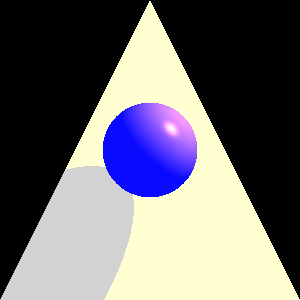
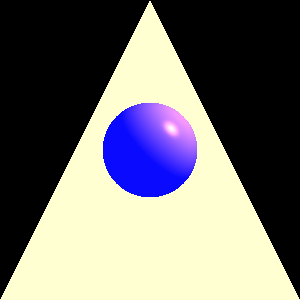
part 7 section 2

Changed region(s): [[0.0, 0.54, 0.45, 1.0]]

diff --git a/src/renderer/SimpleRayTracer.java b/src/renderer/SimpleRayTracer.java
@@ -20,45 +20,91 @@ import static primitives.Util.isZero;
 public class SimpleRayTracer extends RayTracerBase {
     private static final double DELTA = 0.1;
     private static final Double3 MIN_CALC_COLOR_K = new Double3(0.001);
-    private static final int MAX_RECURSION_LEVEL = 10;
+    private static final int MAX_CALC_COLOR_LEVEL = 10;
+    private static final Double3 INITIAL_K = Double3.ONE;
 
     public SimpleRayTracer(Scene scene, RayTracerType simple) {
         super(scene);
     }
 
     private Color calcColor(Intersection intersection, Ray ray) {
-        return calcColor(intersection, ray, MAX_RECURSION_LEVEL, 1.0);
+        return calcColor(intersection, ray, MAX_CALC_COLOR_LEVEL, INITIAL_K);
     }
 
-    private Color calcColor(Intersection intersection, Ray ray, int level, double k) {
-        if (intersection == null || level == 0 || k < 0.001)
+    private Color calcColor(Intersection intersection, Ray ray, int level, Double3 k) {
+        if (intersection == null || level == 0 || k.lowerThan(MIN_CALC_COLOR_K))
             return scene.background;
 
         if (!preprocessIntersection(intersection, ray.getDirection()))
             return Color.BLACK;
 
-        Color color = scene.ambientLight.getIntensity()
+        Color localColor = scene.ambientLight.getIntensity()
                 .scale(intersection.material.kD)
                 .add(intersection.geometry.getEmission())
                 .add(calcColorLocalEffects(intersection));
 
-        double kT = intersection.material.kT.getAverage();
-        if (kT > 0) {
-            Vector dir = ray.getDirection();
-            Vector n = intersection.normal;
-            double nl = dir.dotProduct(n);
-            Vector offset = n.scale(nl < 0 ? DELTA : -DELTA);
-            Point newPoint = intersection.point.add(offset);
-            Ray refractedRay = new Ray(newPoint, dir);
+        Color globalColor = calcGlobalEffects(intersection, level, k);
 
-            Intersection nextIntersection = refractedRay.findClosestIntersection(
-                    scene.geometries.calculateIntersectionsHelper(refractedRay));
+        Double3 kT = intersection.material.kT;
+        Double3 kO = Double3.ONE.subtract(kT);
 
-            Color refractedColor = calcColor(nextIntersection, refractedRay, level - 1, k * kT);
-            color = color.add(refractedColor.scale(kT));
+        return localColor.scale(kO).add(globalColor);
+
+    }
+
+    private Ray constructReflectedRay(Intersection intersection) {
+        Vector v = intersection.rayDir; // כיוון הגעה של הקרן
+        Vector n = intersection.normal;
+        double nv = alignZero(v.dotProduct(n));
+        Vector r = v.subtract(n.scale(2 * nv)).normalize();
+
+        Point point = intersection.point.add(n.scale(nv > 0 ? DELTA : -DELTA));
+        return new Ray(point, r);
+    }
+
+    private Ray constructRefractedRay(Intersection intersection) {
+        Vector v = intersection.rayDir;
+        Vector n = intersection.normal;
+        Point point = intersection.point.add(n.scale(alignZero(v.dotProduct(n)) > 0 ? DELTA : -DELTA));
+        return new Ray(point, v);
+    }
+
+    private Color calcGlobalEffect(Ray ray, int level, Double3 k, Double3 kx) {
+        if (level == 0 || k.lowerThan(MIN_CALC_COLOR_K))
+            return Color.BLACK;
+
+        Intersection intersection = findClosestIntersection(ray);
+        if (intersection == null)
+            return scene.background;
+
+        Color color = calcColor(intersection, ray, level - 1, k.product(kx));
+        return color.scale(kx);
+    }
+
+    private Color calcGlobalEffects(Intersection intersection, int level, Double3 k) {
+        Color color = Color.BLACK;
+
+        Double3 kR = intersection.material.kR;
+        if (!kR.lowerThan(MIN_CALC_COLOR_K)) {
+            Ray reflectedRay = constructReflectedRay(intersection);
+            color = color.add(calcGlobalEffect(reflectedRay, level, k, kR));
+        }
+
+        Double3 kT = intersection.material.kT;
+        if (!kT.lowerThan(MIN_CALC_COLOR_K)) {
+            Ray refractedRay = constructRefractedRay(intersection);
+            color = color.add(calcGlobalEffect(refractedRay, level, k, kT));
         }
 
         return color;
+    }
+
+    private Intersection findClosestIntersection(Ray ray) {
+        List<Intersection> intersections = scene.geometries.calculateIntersectionsHelper(ray);
+        if (intersections == null || intersections.isEmpty())
+            return null;
+
+        return ray.findClosestIntersection(intersections);
     }
 
     private boolean unshaded(Intersection intersection, LightSource lightSource) {
@@ -78,12 +124,9 @@ public class SimpleRayTracer extends RayTracerBase {
             if (inter.geometry == intersection.geometry) continue;
 
             double interDist = inter.point.distance(intersection.point);
-            double transparency = inter.material != null ? inter.material.kT.getAverage() : 0;
+            Double3 kT = inter.material != null ? inter.material.kT : Double3.ZERO;
 
-            System.out.printf("[SHADOW] Intersection with %s at distance %.2f, light distance %.2f, transparency %.2f%n",
-                    inter.geometry.getClass().getSimpleName(), interDist, lightDistance, transparency);
-
-            if (interDist <= lightDistance && transparency <= 0) {
+            if (interDist <= lightDistance && kT.lowerThan(MIN_CALC_COLOR_K)) {
                 return false;
             }
         }
@@ -93,12 +136,11 @@ public class SimpleRayTracer extends RayTracerBase {
 
     @Override
     public Color traceRay(Ray ray) {
-        List<Intersection> intersections = scene.geometries.calculateIntersectionsHelper(ray);
-        if (intersections == null || intersections.isEmpty()) {
+        Intersection intersection = findClosestIntersection(ray);
+        if (intersection == null)
             return scene.background;
-        }
-        Intersection in = ray.findClosestIntersection(intersections);
-        return calcColor(in, ray);
+
+        return calcColor(intersection, ray);
     }
 
     public boolean preprocessIntersection(Intersection intersection, Vector rayDir) {

diff --git a/src/unittests/renderer/ReflectionRefractionTests.java b/src/unittests/renderer/ReflectionRefractionTests.java
@@ -1,0 +1,110 @@
+package unittests.renderer;
+
+import static java.awt.Color.*;
+
+import org.junit.jupiter.api.Test;
+
+import geometries.*;
+import lighting.*;
+import primitives.*;
+import scene.Scene;
+
+/**
+ * Tests for reflection and transparency functionality, test for partial
+ * shadows
+ * (with transparency)
+ * @author Dan Zilberstein
+ */
+class ReflectionRefractionTests {
+   /** Default constructor to satisfy JavaDoc generator */
+   ReflectionRefractionTests() { /* to satisfy JavaDoc generator */ }
+
+   /** Scene for the tests */
+   private final Scene          scene         = new Scene("Test scene");
+   /** Camera builder for the tests with triangles */
+   private final renderer.Camera.Builder cameraBuilder = renderer.Camera.getBuilder()     //
+      .setRayTracer(scene, renderer.RayTracerType.SIMPLE);
+
+   /** Produce a picture of a sphere lighted by a spot light */
+   @Test
+   void twoSpheres() {
+      scene.geometries.add( //
+                           new Sphere(new Point(0, 0, -50), 50d).setEmission(new Color(BLUE)) //
+                              .setMaterial(new Material().setKd(0.4).setKs(0.3).setShininess(100).setKt(0.3)), //
+                           new Sphere(new Point(0, 0, -50), 25d).setEmission(new Color(RED)) //
+                              .setMaterial(new Material().setKd(0.5).setKs(0.5).setShininess(100))); //
+      scene.lights.add( //
+                       new SpotLight(new Color(1000, 600, 0), new Point(-100, -100, 500), new Vector(-1, -1, -2)) //
+                          .setKL(0.0004).setKQ(0.0000006));
+
+      cameraBuilder
+         .setLocation(new Point(0, 0, 1000)) //
+         .setDirection(Point.ZERO, Vector.AXIS_Y) //
+         .setVpDistance(1000).setVpSize(150, 150) //
+         .setResolution(500, 500) //
+         .build() //
+         .renderImage() //
+         .writeToImage("refractionTwoSpheres");
+   }
+
+   /** Produce a picture of a sphere lighted by a spot light */
+   @Test
+   void twoSpheresOnMirrors() {
+      scene.geometries.add( //
+                           new Sphere(new Point(-950, -900, -1000), 400d).setEmission(new Color(0, 50, 100)) //
+                              .setMaterial(new Material().setKd(0.25).setKs(0.25).setShininess(20) //
+                                 .setKt(new Double3(0.5, 0, 0))), //
+                           new Sphere(new Point(-950, -900, -1000), 200d).setEmission(new Color(100, 50, 20)) //
+                              .setMaterial(new Material().setKd(0.25).setKs(0.25).setShininess(20)), //
+                           new Triangle(new Point(1500, -1500, -1500), new Point(-1500, 1500, -1500), //
+                                        new Point(670, 670, 3000)) //
+                              .setEmission(new Color(20, 20, 20)) //
+                              .setMaterial(new Material().setKr(1)), //
+                           new Triangle(new Point(1500, -1500, -1500), new Point(-1500, 1500, -1500), //
+                                        new Point(-1500, -1500, -2000)) //
+                              .setEmission(new Color(20, 20, 20)) //
+                              .setMaterial(new Material().setKr(new Double3(0.5, 0, 0.4))));
+      scene.setAmbientLight(new AmbientLight(new Color(26, 26, 26)));
+      scene.lights.add(new SpotLight(new Color(1020, 400, 400), new Point(-750, -750, -150), new Vector(-1, -1, -4)) //
+         .setKL(0.00001).setKQ(0.000005));
+
+      cameraBuilder
+         .setLocation(new Point(0, 0, 10000)) //
+         .setDirection(Point.ZERO, Vector.AXIS_Y) //
+         .setVpDistance(10000).setVpSize(2500, 2500) //
+         .setResolution(500, 500) //
+         .build() //
+         .renderImage() //
+         .writeToImage("reflectionTwoSpheresMirrored");
+   }
+
+   /**
+    * Produce a picture of a two triangles lighted by a spot light with a
+    * partially
+    * transparent Sphere producing partial shadow
+    */
+   @Test
+   void trianglesTransparentSphere() {
+      scene.geometries.add(
+                           new Triangle(new Point(-150, -150, -115), new Point(150, -150, -135),
+                                        new Point(75, 75, -150))
+                              .setMaterial(new Material().setKd(0.5).setKs(0.5).setShininess(60)),
+                           new Triangle(new Point(-150, -150, -115), new Point(-70, 70, -140), new Point(75, 75, -150))
+                              .setMaterial(new Material().setKd(0.5).setKs(0.5).setShininess(60)),
+                           new Sphere(new Point(60, 50, -50), 30d).setEmission(new Color(BLUE))
+                              .setMaterial(new Material().setKd(0.2).setKs(0.2).setShininess(30).setKt(0.6)));
+      scene.setAmbientLight(new AmbientLight(new Color(38, 38, 38)));
+      scene.lights.add(
+                       new SpotLight(new Color(700, 400, 400), new Point(60, 50, 0), new Vector(0, 0, -1))
+                          .setKL(4E-5).setKQ(2E-7));
+
+      cameraBuilder
+         .setLocation(new Point(0, 0, 1000)) //
+         .setDirection(Point.ZERO, Vector.AXIS_Y) //
+         .setVpDistance(1000).setVpSize(200, 200) //
+         .setResolution(600, 600) //
+         .build() //
+         .renderImage() //
+         .writeToImage("refractionShadow");
+   }
+}
